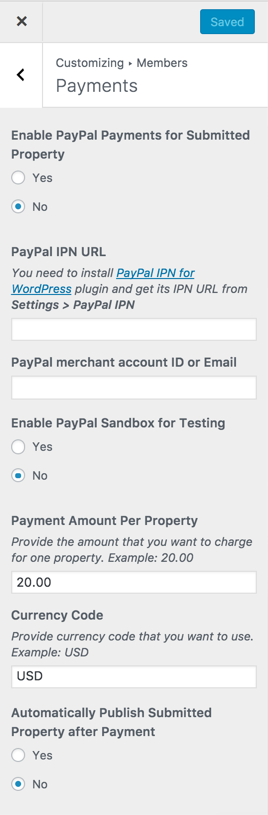
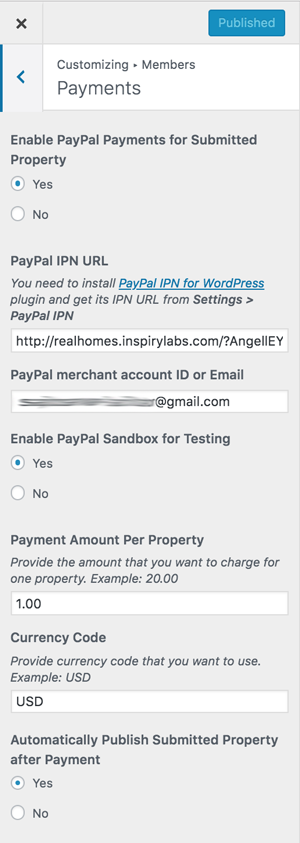
Improved Individual Property Payments using PayPal

diff --git a/docs/paypal-ipn.md b/docs/paypal-ipn.md
@@ -1,39 +1,31 @@
-# PayPal IPN Plugin Installation & Setup
+# Individual Property Payments Using PayPal
 
-### Installation & Activation
+## Install & Activate PayPal IPN Plugin
 
-You can install and setup [PayPal IPN Plugin](https://wordpress.org/plugins/paypal-ipn/) for payment functionality.
+You have to install [PayPal IPN Plugin](https://wordpress.org/plugins/paypal-ipn/) for this purpose.
 
-1. Please navigate to **Dashboard → Plugins → Add New** and search for "**PayPal IPN**" as shown in the screenshot below: 
-![Real Homes Documentation](images/other-features/search-for-paypal-ipn.png)
+1. Navigate to **Dashboard → Plugins → Add New** and search for **PayPal IPN** as shown in the screenshot below: 
+	
+	![Install PayPal IPN Plugin](images/other-features/search-for-paypal-ipn.png)
 
-2. Once you have found it then click the "**Install Now**" link under the PayPal IPN for WordPress plugin in the list of results.
+2. Once found, **Install** and **Activate**
 
-3. Click the "**Activate Plugin**" link after the plugin has been installed.
+## Configure related Settings
 
-### PayPal IPN Plugin Setup
+1. Navigate to **Dashboard → Settings → PayPal IPN** 
 
-To setup your **WordPress PayPal IPN listener** you will need to copy your **IPN URL** from the plugin’s general settings tab into your **PayPal account profile’s IPN settings panel**.
+	![PayPal IP Settings](images/other-features/wordpress-paypal-ipn-general-settings.png)
+	
+2. Select the **PayPal IPN Primary URL** and copy it to your clipboard by pressing **Ctrl+C** for Windows or **Cmd+C** for Mac.
 
-1. Kindly navigate to **Dashboard → Settings → PayPal IPN**.
+3. If you want to enable logging for troubleshooting purposes, check the box below and click **Save Changes** as shown in the screenshot above.
 
-2. **Highlight** the **PayPal IPN Primary URL** and copy it to your clipboard by pressing **Ctrl+C / Cmd+C**.
+4. Navigate to **Dashboard → Real Homes → Customize Settings → Members → Payments** and paste the copied IPN URL in **PayPal IPN URL** field.
 
-3. If you wish to enable logging for troubleshooting purposes, check the box and click **Save** as shown in the screenshot. 
-![Real Homes Documentation](images/other-features/wordpress-paypal-ipn-general-settings.png)
+	![PayPal Property Payment Settings](images/other-features/payment-per-property.png)
+	
+5. Configure other fields based on your requirements and publish settings.
 
-4. Login to your **PayPal account**.
+6. Once done, You can visit my properties page on your website to view PayPal payment button for individual properties.
 
-5. Click the **Profile** link on the **My Account** tab.
-
-6. Click **Instant Payment Notification Preferences** in the **Selling Preferences** section.
-
-7. Click Choose **IPN Settings**.
-
-8. Enter your **IPN URL** that you copied from the plugin settings.
-
-9. Click **Receieve IPN messages (Enabled)** to activate your **IPN listener**.
-
-10. Click **Save** to save your changes. 
-
-![Real Homes Documentation](images/other-features/wordpress-paypal-ipn-profile-config.png)
+In case of any issue, you can signup/login to our [support website](https://support.inspirythemes.com/login-register/) and [ask your question](https://support.inspirythemes.com/ask-question/) over there.
